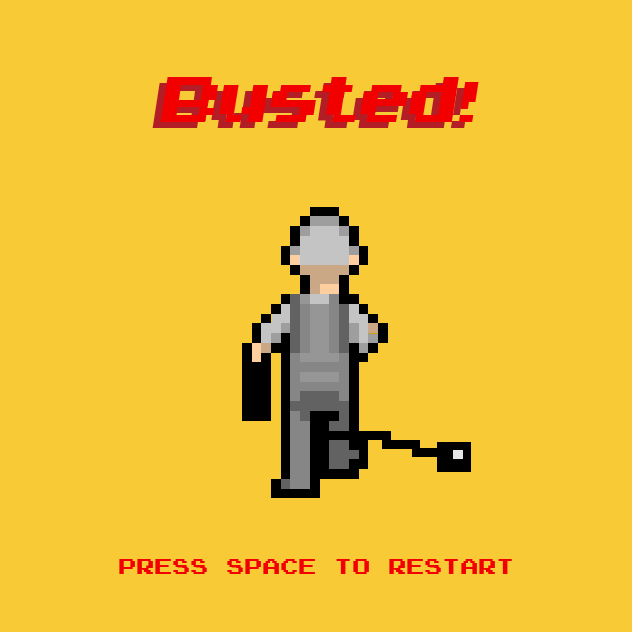
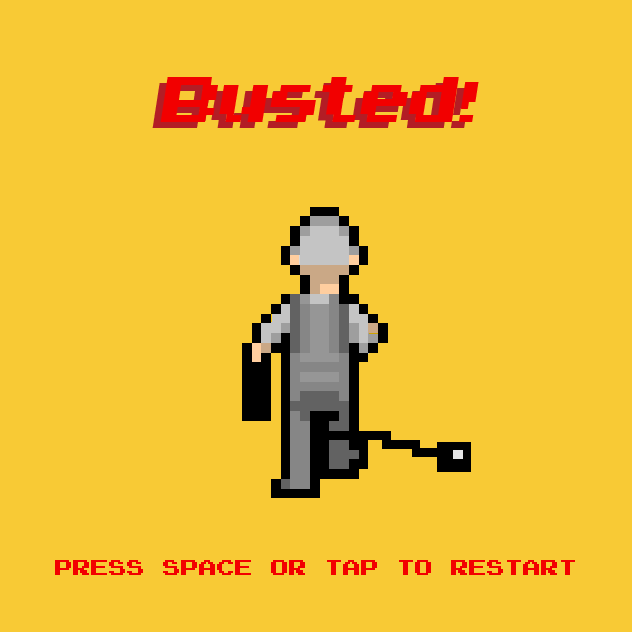
update screens for touch controls

Changed region(s): [[0.0902, 0.8718, 0.9019, 0.932]]

diff --git a/README.md b/README.md
@@ -99,4 +99,6 @@ The start screens were created in collaboration with [nowiknowicki](https://www.
 
 The [helicopter sprite](img/sprites/authority.png) is based on this [sprite](https://www.pokecommunity.com/showthread.php?t=384499) by [godofsalad](https://www.pokecommunity.com/member.php?u=642968)
 
+Kudos to [codeman38](http://www.zone38.net) for the pixelated font "Press Start".
+
 All pixel art for the sprites was created using [Piskel](https://www.piskelapp.com/)
